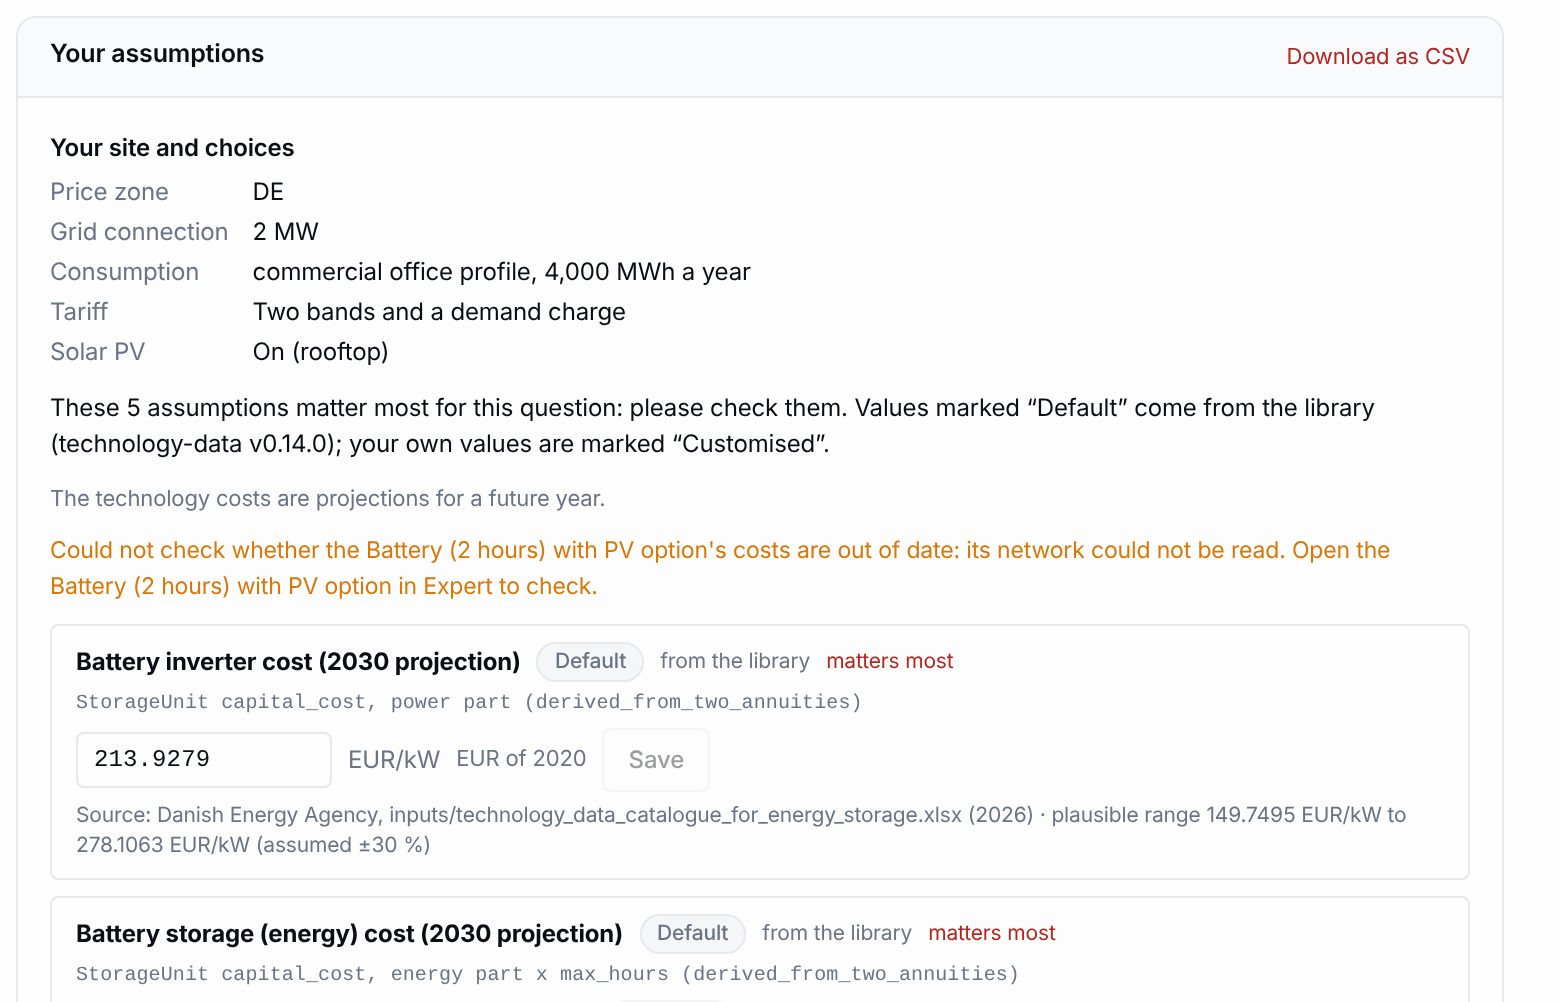
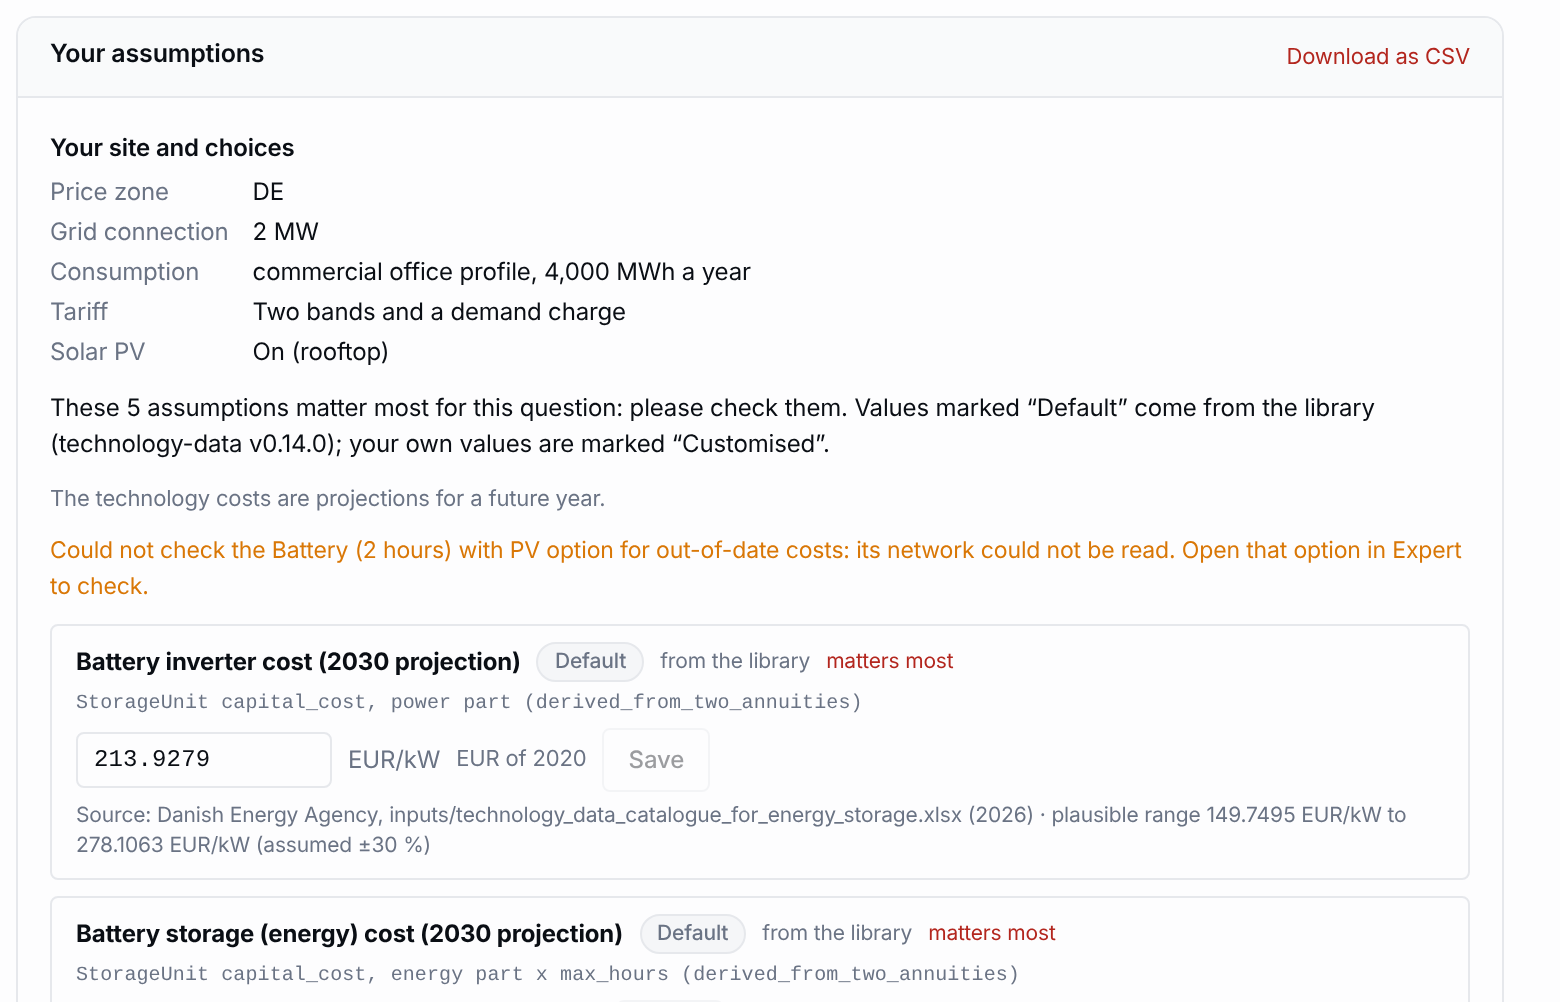
fix(ledger): UX's wording for the unchecked-option note, one line for all
Claude-Session: https://claude.ai/code/session_01G7qCunjEFFwM8AHRz8TxxH

Changed region(s): [[0.0308, 0.5259, 0.9538, 0.6188]]

diff --git a/pypsa-gui/frontend/src/pages/decision/LedgerReview.tsx b/pypsa-gui/frontend/src/pages/decision/LedgerReview.tsx
@@ -127,10 +127,17 @@ function Row({ r, intake, attention, stale, onSave, onReset, saving, tested }: {
 
 const NO_NOTES: string[] = []
 
-/** GK B F1 (P1): the costs on this option were not checked, so none of its rows may read as current. */
-export const uncheckedNote = (option: string) =>
-  `Could not check whether the ${option} option's costs are out of date: its network could not be read. `
-  + `Open the ${option} option in Expert to check.`
+/** GK B F1 (P1): the costs on these options were not checked, so none of their rows may read as current.
+ *  One line for all of them; the words are UX's. */
+export function uncheckedNote(options: string[]): string {
+  if (options.length === 1) {
+    return `Could not check the ${options[0]} option for out-of-date costs: its network could not be read. `
+      + 'Open that option in Expert to check.'
+  }
+  const names = `${options.slice(0, -1).join(', ')} and ${options[options.length - 1]}`
+  return `Could not check the ${names} options for out-of-date costs: their networks could not be read. `
+    + 'Open those options in Expert to check.'
+}
 
 function shownRange(r: LedgerRow, low: number, high: number): string {
   const f = (v: number) => (PERCENT(r) ? `${Number((v * 100).toFixed(2))} %` : `${Number(v.toFixed(4))} ${r.unit}`)
@@ -197,11 +204,11 @@ export default function LedgerReview({ payload, intake, onSave, onReset, saving,
         <p key={n} className="text-[11px] text-muted">{helpFor(n).text}</p>
       ))}
       {/* GK B F1: a fork the ledger could not check is named, so its rows never read as current. */}
-      {(payload.stale_unchecked ?? []).map(u => (
-        <p key={u.option_id} data-testid="ledger-stale-unchecked" className="text-[11.5px] text-warn">
-          {uncheckedNote(u.option_label || u.option_id)}
+      {(payload.stale_unchecked ?? []).length > 0 && (
+        <p data-testid="ledger-stale-unchecked" className="text-[11.5px] text-warn">
+          {uncheckedNote((payload.stale_unchecked ?? []).map(u => u.option_label || u.option_id))}
         </p>
-      ))}
+      )}
       {error && <Refusal error={error} />}
       <ul className="flex flex-col gap-2">{keyRows.map(rowOf)}</ul>
       {changed.length > 0 && (

diff --git a/pypsa-gui/frontend/src/pages/decision/Ledger.render.test.tsx b/pypsa-gui/frontend/src/pages/decision/Ledger.render.test.tsx
@@ -106,8 +106,18 @@ describe('the assumptions review', () => {
     const payload: LedgerPayload = { ...ledger, stale_unchecked: [{ option_id: 'bess_pv_2h', option_label: 'Battery (2 hours) with PV' }] }
     render(<LedgerReview payload={payload} intake={study.intake} saving={false} error={null} csvUrl="/x.csv" onSave={vi.fn()} onReset={vi.fn()} />)
     expect(screen.getByTestId('ledger-stale-unchecked').textContent).toBe(
-      'Could not check whether the Battery (2 hours) with PV option\'s costs are out of date: its network could not be read. '
-      + 'Open the Battery (2 hours) with PV option in Expert to check.')
+      'Could not check the Battery (2 hours) with PV option for out-of-date costs: its network could not be read. '
+      + 'Open that option in Expert to check.')
+  })
+
+  it('names several unchecked options in one line', () => {
+    const payload: LedgerPayload = { ...ledger, stale_unchecked: [
+      { option_id: 'bess_pv_2h', option_label: 'Battery (2 hours) with PV' },
+      { option_id: 'bess_pv_4h', option_label: 'Battery (4 hours) with PV' }] }
+    render(<LedgerReview payload={payload} intake={study.intake} saving={false} error={null} csvUrl="/x.csv" onSave={vi.fn()} onReset={vi.fn()} />)
+    expect(screen.getAllByTestId('ledger-stale-unchecked').map(n => n.textContent)).toEqual([
+      'Could not check the Battery (2 hours) with PV and Battery (4 hours) with PV options for out-of-date costs: '
+      + 'their networks could not be read. Open those options in Expert to check.'])
   })
 
   it('states what the energy price level means', () => {
